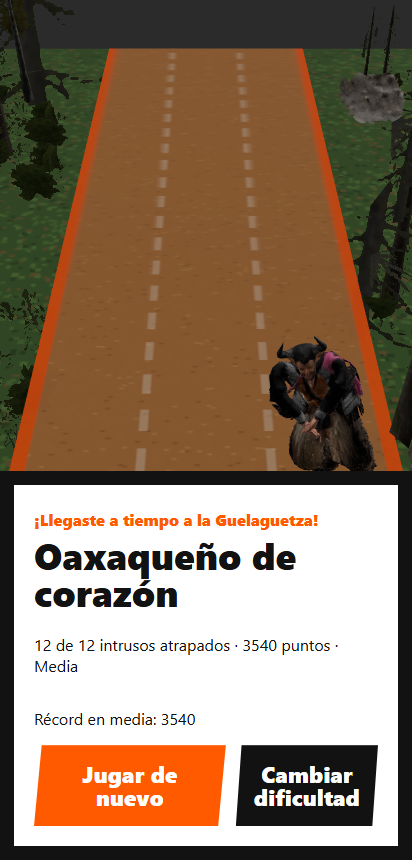
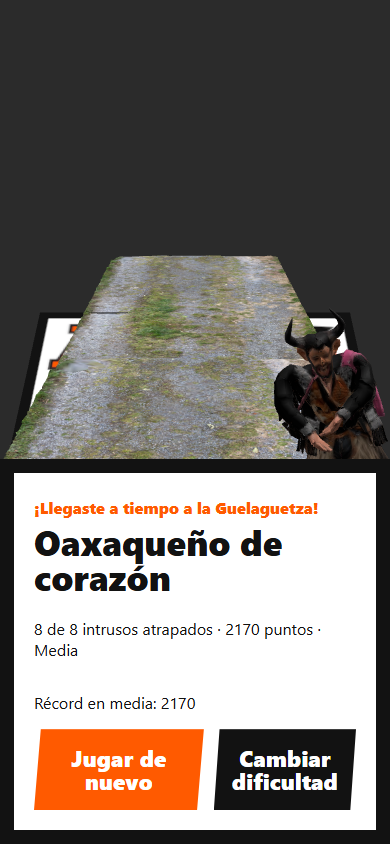
docs: new screenshots and unlit papel picado on the gates
The papel picado showed its dark back side under the scene lights; an
unlit material keeps its colors. Screenshots show the menu, a question
pause and the arrival at the Guelaguetza.

diff --git a/js/modelos.js b/js/modelos.js
@@ -74,6 +74,14 @@ function mezcalProcedural() {
 // cerca de carrizo que tapa los 3 carriles: hay que saltarla (mide 7 cm, el salto sube 13)
 // La cerca escaneada es alta: a escala del salto queda angosta, así que se
 // ponen 4 tramos seguidos para tapar los tres carriles.
+// Papel de china: sin sombreado, así se ve con sus colores aunque la luz venga de atrás.
+function sinSombra(escena) {
+  escena.traverse(o => {
+    if (o.material) o.material = new THREE.MeshBasicMaterial({ map: o.material.map, transparent: true, alphaTest: 0.3, side: THREE.DoubleSide });
+  });
+  return escena;
+}
+
 function cercaDeTramos(escena) {
   const tramo = normalizar(escena, 0.08);
   const ancho = new THREE.Box3().setFromObject(tramo).getSize(new THREE.Vector3()).x;
@@ -127,7 +135,7 @@ export async function cargarModelos() {
     takis: takis ? normalizar(takis.scene, 0.12) : takisProcedural(), // grandes para que se vean
     mezcal: mezcal ? normalizar(mezcal.scene, 0.08) : mezcalProcedural(),
     valla: valla ? cercaDeTramos(valla.scene) : vallaProcedural(),
-    papel: papel ? normalizar(papel.scene, 0.13) : null, // banderitas sobre cada puerta
+    papel: papel ? normalizar(sinSombra(papel.scene), 0.13) : null, // banderitas sobre cada puerta
     camino: camino?.scene ?? null, // grava escaneada; sin ella queda el camino dibujado
   };
 }

diff --git a/README.md b/README.md
@@ -119,9 +119,9 @@ En el juego cada modelo se escala solo (Diablo 24 cm, agave 11 cm, mezcal 8 cm, 
 
 ## Capturas
 
-| Partida | Pantalla final |
-|---|---|
-| ![Partida](docs/capturas/juego.png) | ![Final](docs/capturas/final.png) |
+| Menú | Pregunta | Pantalla final |
+|---|---|---|
+| ![Menú](docs/capturas/menu.png) | ![Partida](docs/capturas/juego.png) | ![Final](docs/capturas/final.png) |
 
 ## Créditos y licencias
 
